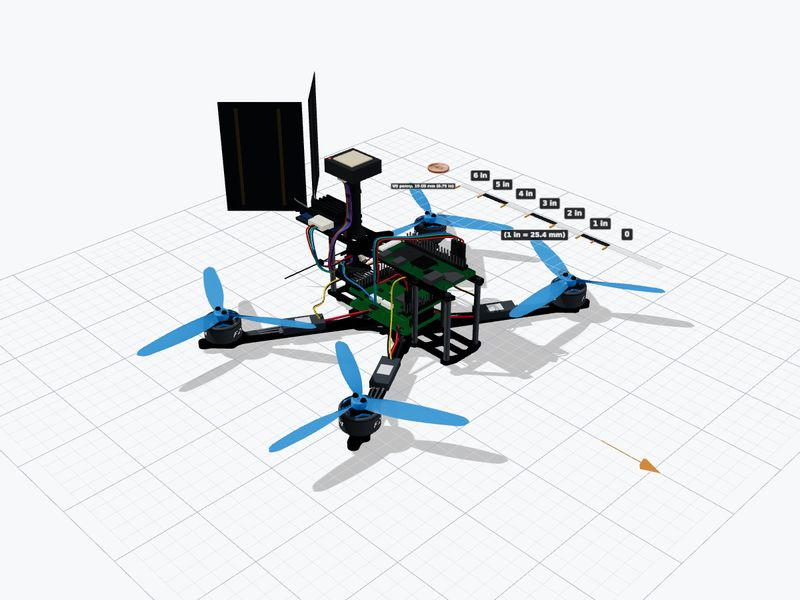
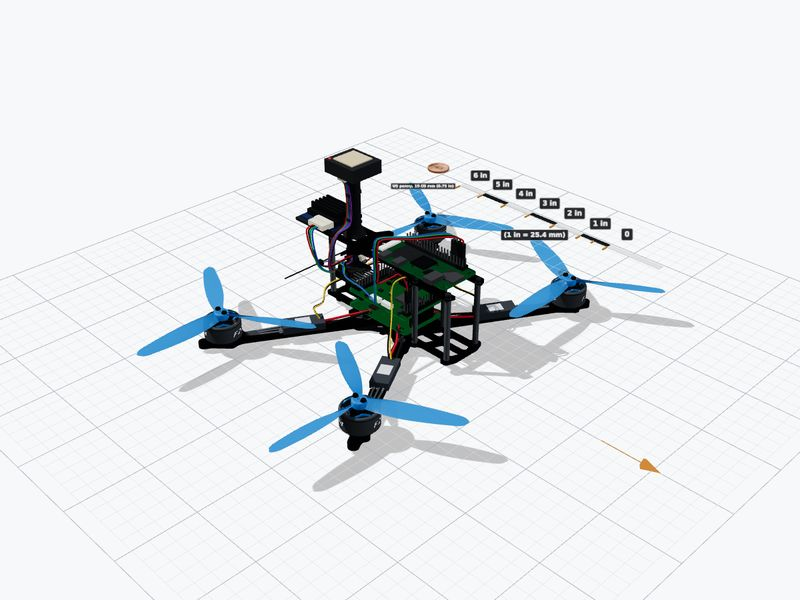
Update renders 2026-11-09

Changed region(s): [[0.25, 0.12, 0.4062, 0.36], [0.5625, 0.42, 0.625, 0.48]]

diff --git a/quad5_render.html b/quad5_render.html
@@ -37,7 +37,7 @@
     <li><span class="sw" style="background:#2f86d6"></span><b>Propellers</b> - 4x HQProp T5x2x3 T-mount tri-blade, 127 mm, 2.0 in pitch, blue; 2 CW + 2 CCW (pitch-correct for both hands)</li>
     <li><span class="sw" style="background:#3b4149"></span><b>ESCs</b> - 4x Lumenier Razor Pro F4 45A AM32 singles, 12 x 28 x 5 mm, 3 g, on the arms</li>
     <li><span class="sw" style="background:#1d6e3c"></span><b>Companion computer</b> - one at a time on the top plate, chosen in the Options panel on the right: Raspberry Pi Zero 2 W (default, 65 x 30 mm, velcro pad), Raspberry Pi 5 (85 x 56 mm, crossbars), Arduino UNO Q (68.6 x 53.4 mm, green, crossbars) or none. Mounts: README.</li>
-    <li><span class="sw" style="background:#2b2d31"></span><b>GPS, radios</b> - Triumph M9N GPS + compass (27 x 25 x 9 mm) on a 45 mm printed mast; RFD900ux-US (25 x 33 x 10.4 mm, 10 g) on a printed tray on the top-plate tail with two RFDesign RFDFLEX2-ux flex antennas (79 x 55 mm, u.FL, upright V 90 deg apart); Ewing EA2400RX (12 x 16.5 x 4.5 mm) on the rear-left standoff, 2.4 GHz T antenna. Mount positions ASSUMED (README).</li>
+    <li><span class="sw" style="background:#2b2d31"></span><b>GPS, radios</b> - Triumph M9N GPS + compass (27 x 25 x 9 mm) on a 45 mm printed mast; RFD900ux-US (25 x 33 x 10.4 mm, 10 g) on a printed tray on the top-plate tail (antennas not drawn); Ewing EA2400RX (12 x 16.5 x 4.5 mm) on the rear-left standoff, 2.4 GHz T antenna. Mount positions ASSUMED (README).</li>
     <li><span class="sw" style="background:#1f5fd6"></span><b>Dupont leads</b> - 26 AWG; black housings on right-angle Wing headers, straight pins with upright housings on F1 / F2 (wiring report): blue TX, green RX, black GND, red 5 V, purple I2C, yellow DShot; beige JST at the parts. Wires on/off (#nowires).</li>
   </ol>
   <div class="scale">Scale: 1 scene unit = 1 mm. Grid: 10 mm fine, 50 mm bold. Arrow on grid = nose. Scale bar: inches (1 in = 25.4 mm). The camera is perspective: the bar is exact on the grid; in the top view parts at motor / prop height read about 3-7 percent larger. Drag to orbit, wheel to zoom, right-drag or shift-drag to pan.</div>
@@ -231,6 +231,7 @@
       var m = shadowed(new THREE.Mesh(g, M.alu)); m.position.set(p[0], yDeck + F.standoffH / 2, -p[1]); quad.add(m);
       var bt = shadowed(new THREE.Mesh(b, M.aluDark)); bt.position.set(p[0], yTopFace + 0.65, -p[1]); quad.add(bt);
       var bb = shadowed(new THREE.Mesh(b, M.aluDark)); bb.position.set(p[0], yBottom - 0.65, -p[1]); quad.add(bb);
+      if (p[1] === 27) (window.__midPosts = window.__midPosts || []).push(m, bt, bb);   // rev 12: hidden with the Cube
     });
     var nf = new THREE.CylinderGeometry(2.4, 2.4, 0.8, 16);
     F.pressNuts.forEach(function (p) {
@@ -693,7 +694,7 @@
       quad.add(g);
       window.__headerPins = headerCount;
     }
-    var LABEL = ['Cube Orange+ on standard carrier', 'Carrier 94.5 x 44.3 x 13.4 + cube 38.2 x 38.2 x 22.3 mm, 73 g', 'Inside the 45 mm stack, turned 90 deg, 2 mm adapter + foam tape', '2.54 mm servo rail 3x15 out the rear; JST-GH 1.25 mm ports', 'Molex Clik-Mate power; micro-USB; 31.4 mm tall', 'NDAA: GREEN (DCMA Blue UAS 2024-05-06; California / Taiwan)'];
+    var LABEL = ['Cube Orange+ on standard carrier', 'Carrier 94.5 x 44.3 x 13.4 + cube 38.2 x 38.2 x 22.3 mm, 73 g', 'Inside the 45 mm stack, fore-aft; middle posts out; 2 mm adapter + foam tape', '2.54 mm servo rail 3x15 out the rear; JST-GH 1.25 mm ports', 'Molex Clik-Mate power; micro-USB; 31.4 mm tall', 'NDAA: GREEN (DCMA Blue UAS 2024-05-06; California / Taiwan)'];
 
     // CubePilot standard carrier (ADS-B version shares the outline): 94.46 (Z) x 44.29 (X) x 13.4 mm black enclosure, cube
     // 38.2 x 38.2 x 22.3 mm, 31.42 mm overall; mount holes 85 x 34.4 mm dia 2.5; connector zone 29.31 mm at the front,
@@ -703,7 +704,7 @@
 
     // 2 mm carbon adapter plate on the four M3 press-nut heads (rev 11): carrier outline, local to this board group
     (function () { var s = roundedRectShape(CL, CW, 3); [[15.25, 15.25], [-15.25, 15.25], [15.25, -15.25], [-15.25, -15.25]].forEach(function (p) {
-      var q = [-p[1], -p[0]]; s.holes.push(hole(q[0], q[1], 1.6)); }); g.add(plate(s, 2, F.fcNutH, M.carbonEdge || M.carbon)); })();
+      var q = [p[0], -p[1] + 1.5]; s.holes.push(hole(q[0], q[1], 1.6)); }); g.add(plate(s, 2, F.fcNutH, M.carbonEdge || M.carbon)); })();
     (function () { var fm = new THREE.MeshStandardMaterial({ color: 0x2a2c30, roughness: 0.95 });
       [[0, 30], [0, -30]].forEach(function (p) { box(30, 3, 20, fm, p[0], F.fcNutH + 2 + 1.5, p[1]); }); })();
     var holes = [[17.2, 42.5], [-17.2, 42.5], [17.2, -42.5], [-17.2, -42.5]];
@@ -730,7 +731,7 @@
     // two micro-USB on the left side
     box(3, 2.6, 7.5, M.usb, -CW / 2 - 0.2, y0 + 9.5, -5.2); box(3, 2.6, 7.5, M.usb, -CW / 2 - 0.2, y0 + 9.5, 9.8);
     finish(LABEL, yCube, CL / 2 + 6, new THREE.Vector3(0, yCube, CL / 2 - 20));
-    g.rotation.y = Math.PI / 2;   // rev 11: long axis lateral (94.5 mm does not fit the 80.5 mm fore-aft span)
+    g.position.z = -1.5;   // rev 12: long axis fore-aft (normal orientation), frame y = +1.5; middle standoff pair hidden
   })();
   window.__fcSet['cube'] = window.__fcGroup;
   // ARKV6X + PAB carrier
@@ -927,7 +928,7 @@
     quad.add(escG);
     CO('4x T-Motor F2004-size motor', 'T-mount, HQProp T5x2x3 props', anchorAt(escG, F.motorX, yAT + 19, -F.motorY));
     (function () {   // FC callouts, one per option (shown with its board)
-      var FCL = { wing: ['Triumph Lucid H7 Wing (FC + PDB)', '54 x 36 x 13 mm on M3 grommets'], h7: ['Triumph Lucid H7 V2 (non-Wing) + PDB', '36 x 36 mm FC over a separate PDB'], matek: ['Matek F405-WMO (FC + PDB)', '32 x 22 mm; 18 x 12 M2: adapter or VHB'], ark: ['ARKV6X + PAB carrier', 'in the stack on a 2 mm adapter plate'], cube: ['Cube Orange+ (standard carrier)', 'in the stack, turned 90 deg, adapter plate'] };
+      var FCL = { wing: ['Triumph Lucid H7 Wing (FC + PDB)', '54 x 36 x 13 mm on M3 grommets'], h7: ['Triumph Lucid H7 V2 (non-Wing) + PDB', '36 x 36 mm FC over a separate PDB'], matek: ['Matek F405-WMO (FC + PDB)', '32 x 22 mm; 18 x 12 M2: adapter or VHB'], ark: ['ARKV6X + PAB carrier', 'in the stack on a 2 mm adapter plate'], cube: ['Cube Orange+ (standard carrier)', 'in the stack, fore-aft, middle posts out'] };
       quad.updateMatrixWorld(true);
       Object.keys(FCL).forEach(function (k) {
         var g = (window.__fcSet || {})[k]; if (!g) return;
@@ -1095,6 +1096,8 @@
       bx(radG, 5.5, 3.6, 14.5, RM.jst, 15.25, yT + 1.6 + 2.1, RF.z0 + 3 + 7.65);           // its plug
       RF.plug = { x: 18, y: yT + 1.6 + 2.1, z: RF.z0 + 3 + 7.65 };
       // printed V-clip at the tray's rear end, two flex antennas, u.FL leads from the radio's rear end
+      // RFD_ANTENNAS flag (onboard_wiring.py): off since 2026-11-09 (designer: rendered wrong, to be redone)
+      if (false) {
       var zV = zR + 3.5, flexM = new THREE.MeshStandardMaterial({ color: 0x1e2024, roughness: 0.7, metalness: 0.05 }),
           trace = new THREE.MeshStandardMaterial({ color: 0x6b5a3a, roughness: 0.5, metalness: 0.4 });
       bx(radG, 14, 2, 7, RM.printed, 0, H0 + 1, zV);
@@ -1107,6 +1110,7 @@
         a.updateMatrix(); var feed = new THREE.Vector3(9, 10, 0).applyMatrix4(a.matrix);
         tubeW(radG, [[s * 4, yT + 1.8, zR - 1.5], [s * 4.5, yT + 4, zR + 1.5], [feed.x - s * 1, feed.y - 2, feed.z - 1], [feed.x, feed.y, feed.z]], 0.55, RM.coax);   // u.FL lead
       });
+      }
     })();
     // EA2400RX: 12 x 16.5 x 4.5 mm, upright on the outside of the rear-left standoff (-8, frame y -57.5), between the plates
     var RXP = { x: -8 - 2 - 0.1 - 2.25, y0: yDeck + 8, z: 57.5 };
@@ -1124,10 +1128,23 @@
         bx(radG, 9, 2, 0.8, RM.tie, (RXP.x - 2.65 - 5.6) / 2 + 0.2, y, RXP.z - 6.7); bx(radG, 9, 2, 0.8, RM.tie, (RXP.x - 2.65 - 5.6) / 2 + 0.2, y, RXP.z + 6.7);
       });
     })();
+    // FPV camera + VTX placeholder (designer 2026-11-09, "put a small box in front for fpv camera/vtx"). Sizes ASSUMED (no dims in
+    // the notes): Fat Shark Aura analog as a 19 x 19 mm micro camera, 20 mm deep; Triumph Unify Pro32 DP as 30 x 30 x 8 mm, upright
+    // behind it. Between the plates at the nose: camera between the nose standoffs (y = +55, x = +/-13.5), front face at frame y
+    // = +62; VTX upright across the stack at frame y = +37 (between the y = +27 and +55 standoff pairs). No wiring, no antenna yet.
+    var CAM = { y0: yDeck + 12 };
+    if (false) (function () {
+      var bm = new THREE.MeshStandardMaterial({ color: 0x2b2d31, roughness: 0.7, metalness: 0.1 }),
+          gl = new THREE.MeshStandardMaterial({ color: 0x0d1a26, roughness: 0.15, metalness: 0.6 });
+      bx(radG, 19, 19, 20, bm, 0, CAM.y0 + 9.5, -52);                                       // camera body, frame y +42 .. +62
+      var ln = new THREE.Mesh(new THREE.CylinderGeometry(6, 6, 3, 24), gl); ln.rotation.x = Math.PI / 2; ln.position.set(0, CAM.y0 + 9.5, -63.5); addTo(radG, ln);   // lens
+      bx(radG, 30, 30, 8, bm, 0, yDeck + 15, -37);                                          // VTX, upright, frame y +33 .. +41
+    })();
     quad.add(radG);
     CO('Triumph M9N GPS + compass', '27 x 25 x 9 mm on a 45 mm printed mast', anchor(radG, 0, GP.yP + GP.H, GP.z));
     CO('RFD900ux-US telemetry radio', '25 x 33 x 10.4 mm, 10 g, tray on the top-plate tail', anchor(radG, 4, H0 + 2 + RF.H, RF.z0 + RF.L / 2));
-    CO('2x RFDesign RFDFLEX2-ux antennas', '79 x 55 mm flex, 1.3 g each, u.FL; V on the tail, 90 deg apart', anchor(radG, 20, H0 + 60, RF.z0 + RF.L + 22));
+    if (false) CO('FPV camera + VTX (placeholder)', 'Aura 19 x 19 mm + Unify Pro32 30 x 30 x 8 mm, ASSUMED sizes', anchor(radG, 0, CAM.y0 + 19, -52));
+    if (false) CO('2x RFDesign RFDFLEX2-ux antennas', '79 x 55 mm flex, 1.3 g each, u.FL; V on the tail, 90 deg apart', anchor(radG, 20, H0 + 60, RF.z0 + RF.L + 22));
     CO('Ewing EA2400RX receiver', 'about 12 x 16.5 x 4.5 mm, rear-left standoff', anchor(radG, RXP.x - 2.25, RXP.y0 + 12, RXP.z), { top: 1 });
     // ---- Dupont wiring at the Lucid H7 Wing (tools/render/onboard_wiring.py; research/wiring/Lucid_H7_Wing_Wiring_2026-11-09.md) ----
     var WC = {
@@ -1499,6 +1516,7 @@
     var bw = document.getElementById('bWires');
     function apply() {
       if (FCS) fcKeys.forEach(function (k) { FCS[k].visible = k === st.fc; });
+      (window.__midPosts || []).forEach(function (m) { m.visible = !(FCS && st.fc === 'cube'); });   // Cube fore-aft needs the y = +27 pair out (rev 12)
       var pw = window.__escPwr || {}, pk = FCS ? (pw[st.fc] ? st.fc : 'low') : 'only';
       Object.keys(pw).forEach(function (k) { pw[k].visible = k === pk; });
       ['zero', 'pi5', 'uno'].forEach(function (k) { if (C[k]) C[k].visible = k === st.pc; });

diff --git a/quad4_vs_quad5_render.html b/quad4_vs_quad5_render.html
@@ -40,7 +40,7 @@
       <tr><th>Motors</th><td>XING2 1404 3800KV</td><td>T-Motor F2004-size, 2 M2 per motor</td></tr>
       <tr><th>Props</th><td>Gemfan 4024, 2-blade, 101.6 mm</td><td>HQ T5x2x3, 3-blade, 127 mm</td></tr>
       <tr><th>Battery</th><td>2S 2200 under the bottom plate</td><td>not drawn</td></tr>
-      <tr><th>Extras</th><td>Orange Pi Zero 3W (flat), GPS mast, camera, RX, ESP32</td><td>4 Razor Pro 45A ESCs on the arms; M9N GPS mast, RFD900ux and EA2400RX with antennas, Dupont leads (Wires on/off, Wing only); flight controller (five options) and companion computer (Pi Zero 2 W, Pi 5, Arduino UNO Q or none) chosen in the Options panel</td></tr>
+      <tr><th>Extras</th><td>Orange Pi Zero 3W (flat), GPS mast, camera, RX, ESP32</td><td>4 Razor Pro 45A ESCs on the arms; M9N GPS mast, RFD900ux (antennas not drawn) and EA2400RX, Dupont leads (Wires on/off, Wing only); flight controller (five options) and companion computer (Pi Zero 2 W, Pi 5, Arduino UNO Q or none) chosen in the Options panel</td></tr>
       <tr><th>Weight</th><td>no estimate in the README</td><td>frame about 46-53 g (design note); no AUW</td></tr>
     </tbody>
   </table>
@@ -588,7 +588,7 @@
 
   // =====================================================================
   // 5-inch quad: built by the code of quad5_render.html, copied verbatim (dimensions D, materials, helpers,
-  // MODL block, quad group incl. its makeLabel). Generated 2026-11-09 from quad5_render.html lines 84-108, 134-203, 205-1371.
+  // MODL block, quad group incl. its makeLabel). Generated 2026-11-09 from quad5_render.html lines 84-108, 134-203, 205-1388.
   // =====================================================================
   function buildENG(scene) {
     var D = {
@@ -715,6 +715,7 @@
         var m = shadowed(new THREE.Mesh(g, M.alu)); m.position.set(p[0], yDeck + F.standoffH / 2, -p[1]); quad.add(m);
         var bt = shadowed(new THREE.Mesh(b, M.aluDark)); bt.position.set(p[0], yTopFace + 0.65, -p[1]); quad.add(bt);
         var bb = shadowed(new THREE.Mesh(b, M.aluDark)); bb.position.set(p[0], yBottom - 0.65, -p[1]); quad.add(bb);
+        if (p[1] === 27) (window.__midPosts = window.__midPosts || []).push(m, bt, bb);   // rev 12: hidden with the Cube
       });
       var nf = new THREE.CylinderGeometry(2.4, 2.4, 0.8, 16);
       F.pressNuts.forEach(function (p) {
@@ -1177,7 +1178,7 @@
         quad.add(g);
         window.__headerPins = headerCount;
       }
-      var LABEL = ['Cube Orange+ on standard carrier', 'Carrier 94.5 x 44.3 x 13.4 + cube 38.2 x 38.2 x 22.3 mm, 73 g', 'Inside the 45 mm stack, turned 90 deg, 2 mm adapter + foam tape', '2.54 mm servo rail 3x15 out the rear; JST-GH 1.25 mm ports', 'Molex Clik-Mate power; micro-USB; 31.4 mm tall', 'NDAA: GREEN (DCMA Blue UAS 2024-05-06; California / Taiwan)'];
+      var LABEL = ['Cube Orange+ on standard carrier', 'Carrier 94.5 x 44.3 x 13.4 + cube 38.2 x 38.2 x 22.3 mm, 73 g', 'Inside the 45 mm stack, fore-aft; middle posts out; 2 mm adapter + foam tape', '2.54 mm servo rail 3x15 out the rear; JST-GH 1.25 mm ports', 'Molex Clik-Mate power; micro-USB; 31.4 mm tall', 'NDAA: GREEN (DCMA Blue UAS 2024-05-06; California / Taiwan)'];
 
       // CubePilot standard carrier (ADS-B version shares the outline): 94.46 (Z) x 44.29 (X) x 13.4 mm black enclosure, cube
       // 38.2 x 38.2 x 22.3 mm, 31.42 mm overall; mount holes 85 x 34.4 mm dia 2.5; connector zone 29.31 mm at the front,
@@ -1187,7 +1188,7 @@
 
       // 2 mm carbon adapter plate on the four M3 press-nut heads (rev 11): carrier outline, local to this board group
       (function () { var s = roundedRectShape(CL, CW, 3); [[15.25, 15.25], [-15.25, 15.25], [15.25, -15.25], [-15.25, -15.25]].forEach(function (p) {
-        var q = [-p[1], -p[0]]; s.holes.push(hole(q[0], q[1], 1.6)); }); g.add(plate(s, 2, F.fcNutH, M.carbonEdge || M.carbon)); })();
+        var q = [p[0], -p[1] + 1.5]; s.holes.push(hole(q[0], q[1], 1.6)); }); g.add(plate(s, 2, F.fcNutH, M.carbonEdge || M.carbon)); })();
       (function () { var fm = new THREE.MeshStandardMaterial({ color: 0x2a2c30, roughness: 0.95 });
         [[0, 30], [0, -30]].forEach(function (p) { box(30, 3, 20, fm, p[0], F.fcNutH + 2 + 1.5, p[1]); }); })();
       var holes = [[17.2, 42.5], [-17.2, 42.5], [17.2, -42.5], [-17.2, -42.5]];
@@ -1214,7 +1215,7 @@
       // two micro-USB on the left side
       box(3, 2.6, 7.5, M.usb, -CW / 2 - 0.2, y0 + 9.5, -5.2); box(3, 2.6, 7.5, M.usb, -CW / 2 - 0.2, y0 + 9.5, 9.8);
       finish(LABEL, yCube, CL / 2 + 6, new THREE.Vector3(0, yCube, CL / 2 - 20));
-      g.rotation.y = Math.PI / 2;   // rev 11: long axis lateral (94.5 mm does not fit the 80.5 mm fore-aft span)
+      g.position.z = -1.5;   // rev 12: long axis fore-aft (normal orientation), frame y = +1.5; middle standoff pair hidden
     })();
     window.__fcSet['cube'] = window.__fcGroup;
     // ARKV6X + PAB carrier
@@ -1411,7 +1412,7 @@
       quad.add(escG);
       CO('4x T-Motor F2004-size motor', 'T-mount, HQProp T5x2x3 props', anchorAt(escG, F.motorX, yAT + 19, -F.motorY));
       (function () {   // FC callouts, one per option (shown with its board)
-        var FCL = { wing: ['Triumph Lucid H7 Wing (FC + PDB)', '54 x 36 x 13 mm on M3 grommets'], h7: ['Triumph Lucid H7 V2 (non-Wing) + PDB', '36 x 36 mm FC over a separate PDB'], matek: ['Matek F405-WMO (FC + PDB)', '32 x 22 mm; 18 x 12 M2: adapter or VHB'], ark: ['ARKV6X + PAB carrier', 'in the stack on a 2 mm adapter plate'], cube: ['Cube Orange+ (standard carrier)', 'in the stack, turned 90 deg, adapter plate'] };
+        var FCL = { wing: ['Triumph Lucid H7 Wing (FC + PDB)', '54 x 36 x 13 mm on M3 grommets'], h7: ['Triumph Lucid H7 V2 (non-Wing) + PDB', '36 x 36 mm FC over a separate PDB'], matek: ['Matek F405-WMO (FC + PDB)', '32 x 22 mm; 18 x 12 M2: adapter or VHB'], ark: ['ARKV6X + PAB carrier', 'in the stack on a 2 mm adapter plate'], cube: ['Cube Orange+ (standard carrier)', 'in the stack, fore-aft, middle posts out'] };
         quad.updateMatrixWorld(true);
         Object.keys(FCL).forEach(function (k) {
           var g = (window.__fcSet || {})[k]; if (!g) return;
@@ -1579,6 +1580,8 @@
         bx(radG, 5.5, 3.6, 14.5, RM.jst, 15.25, yT + 1.6 + 2.1, RF.z0 + 3 + 7.65);           // its plug
         RF.plug = { x: 18, y: yT + 1.6 + 2.1, z: RF.z0 + 3 + 7.65 };
         // printed V-clip at the tray's rear end, two flex antennas, u.FL leads from the radio's rear end
+        // RFD_ANTENNAS flag (onboard_wiring.py): off since 2026-11-09 (designer: rendered wrong, to be redone)
+        if (false) {
         var zV = zR + 3.5, flexM = new THREE.MeshStandardMaterial({ color: 0x1e2024, roughness: 0.7, metalness: 0.05 }),
             trace = new THREE.MeshStandardMaterial({ color: 0x6b5a3a, roughness: 0.5, metalness: 0.4 });
         bx(radG, 14, 2, 7, RM.printed, 0, H0 + 1, zV);
@@ -1591,6 +1594,7 @@
           a.updateMatrix(); var feed = new THREE.Vector3(9, 10, 0).applyMatrix4(a.matrix);
           tubeW(radG, [[s * 4, yT + 1.8, zR - 1.5], [s * 4.5, yT + 4, zR + 1.5], [feed.x - s * 1, feed.y - 2, feed.z - 1], [feed.x, feed.y, feed.z]], 0.55, RM.coax);   // u.FL lead
         });
+        }
       })();
       // EA2400RX: 12 x 16.5 x 4.5 mm, upright on the outside of the rear-left standoff (-8, frame y -57.5), between the plates
       var RXP = { x: -8 - 2 - 0.1 - 2.25, y0: yDeck + 8, z: 57.5 };
@@ -1608,10 +1612,23 @@
           bx(radG, 9, 2, 0.8, RM.tie, (RXP.x - 2.65 - 5.6) / 2 + 0.2, y, RXP.z - 6.7); bx(radG, 9, 2, 0.8, RM.tie, (RXP.x - 2.65 - 5.6) / 2 + 0.2, y, RXP.z + 6.7);
         });
       })();
+      // FPV camera + VTX placeholder (designer 2026-11-09, "put a small box in front for fpv camera/vtx"). Sizes ASSUMED (no dims in
+      // the notes): Fat Shark Aura analog as a 19 x 19 mm micro camera, 20 mm deep; Triumph Unify Pro32 DP as 30 x 30 x 8 mm, upright
+      // behind it. Between the plates at the nose: camera between the nose standoffs (y = +55, x = +/-13.5), front face at frame y
+      // = +62; VTX upright across the stack at frame y = +37 (between the y = +27 and +55 standoff pairs). No wiring, no antenna yet.
+      var CAM = { y0: yDeck + 12 };
+      if (false) (function () {
+        var bm = new THREE.MeshStandardMaterial({ color: 0x2b2d31, roughness: 0.7, metalness: 0.1 }),
+            gl = new THREE.MeshStandardMaterial({ color: 0x0d1a26, roughness: 0.15, metalness: 0.6 });
+        bx(radG, 19, 19, 20, bm, 0, CAM.y0 + 9.5, -52);                                       // camera body, frame y +42 .. +62
+        var ln = new THREE.Mesh(new THREE.CylinderGeometry(6, 6, 3, 24), gl); ln.rotation.x = Math.PI / 2; ln.position.set(0, CAM.y0 + 9.5, -63.5); addTo(radG, ln);   // lens
+        bx(radG, 30, 30, 8, bm, 0, yDeck + 15, -37);                                          // VTX, upright, frame y +33 .. +41
+      })();
       quad.add(radG);
       CO('Triumph M9N GPS + compass', '27 x 25 x 9 mm on a 45 mm printed mast', anchor(radG, 0, GP.yP + GP.H, GP.z));
       CO('RFD900ux-US telemetry radio', '25 x 33 x 10.4 mm, 10 g, tray on the top-plate tail', anchor(radG, 4, H0 + 2 + RF.H, RF.z0 + RF.L / 2));
-      CO('2x RFDesign RFDFLEX2-ux antennas', '79 x 55 mm flex, 1.3 g each, u.FL; V on the tail, 90 deg apart', anchor(radG, 20, H0 + 60, RF.z0 + RF.L + 22));
+      if (false) CO('FPV camera + VTX (placeholder)', 'Aura 19 x 19 mm + Unify Pro32 30 x 30 x 8 mm, ASSUMED sizes', anchor(radG, 0, CAM.y0 + 19, -52));
+      if (false) CO('2x RFDesign RFDFLEX2-ux antennas', '79 x 55 mm flex, 1.3 g each, u.FL; V on the tail, 90 deg apart', anchor(radG, 20, H0 + 60, RF.z0 + RF.L + 22));
       CO('Ewing EA2400RX receiver', 'about 12 x 16.5 x 4.5 mm, rear-left standoff', anchor(radG, RXP.x - 2.25, RXP.y0 + 12, RXP.z), { top: 1 });
       // ---- Dupont wiring at the Lucid H7 Wing (tools/render/onboard_wiring.py; research/wiring/Lucid_H7_Wing_Wiring_2026-11-09.md) ----
       var WC = {
@@ -2020,6 +2037,7 @@
     var bw = document.getElementById('bWires');
     function apply() {
       if (FCS) fcKeys.forEach(function (k) { FCS[k].visible = k === st.fc; });
+      (window.__midPosts || []).forEach(function (m) { m.visible = !(FCS && st.fc === 'cube'); });   // Cube fore-aft needs the y = +27 pair out (rev 12)
       var pw = window.__escPwr || {}, pk = FCS ? (pw[st.fc] ? st.fc : 'low') : 'only';
       Object.keys(pw).forEach(function (k) { pw[k].visible = k === pk; });
       ['zero', 'pi5', 'uno'].forEach(function (k) { if (C[k]) C[k].visible = k === st.pc; });

diff --git a/index.html b/index.html
@@ -4,7 +4,7 @@
 <meta charset="utf-8">
 <meta name="viewport" content="width=device-width, initial-scale=1">
 <title>Drone Renders</title>
-<!-- Generated 2026-11-09 19:34 by tools/render/build_gallery.py; do not edit by hand. -->
+<!-- Generated 2026-11-09 19:58 by tools/render/build_gallery.py; do not edit by hand. -->
 <style>
 :root { --bg:#f7f8f9; --fg:#15181c; --muted:#5b636e; --card:#ffffff; --line:#dde1e5; --link:#1f5fa8; --ph:#eef0f2; }
 :root[data-theme="dark"] { --bg:#1d2024; --fg:#e6e8eb; --muted:#9aa3ad; --card:#25292e; --line:#3a3f46; --link:#8cb8ff; --ph:#2c3137; }
